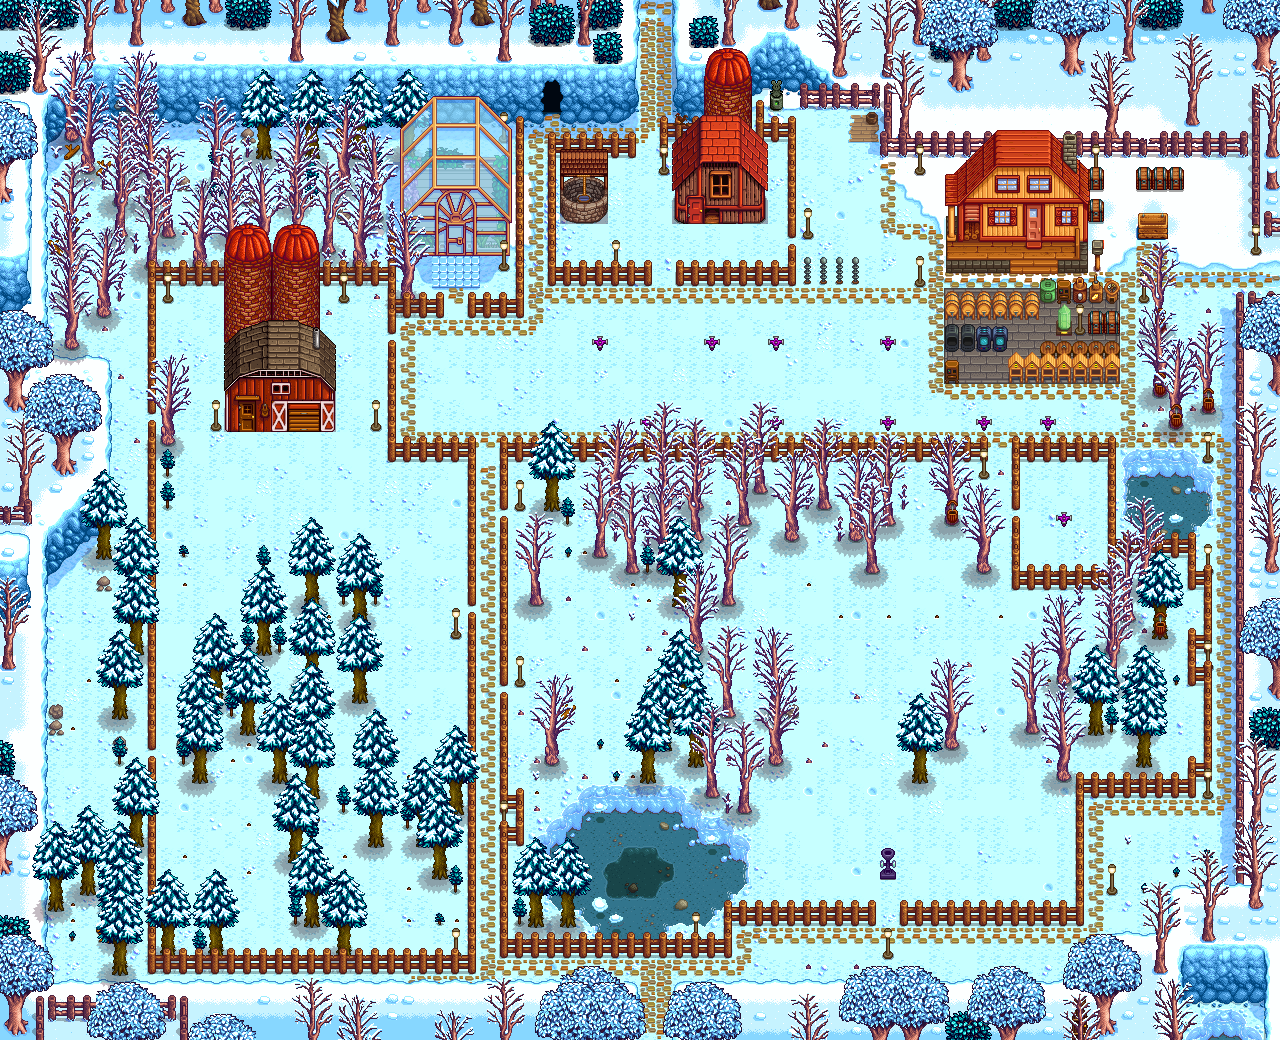
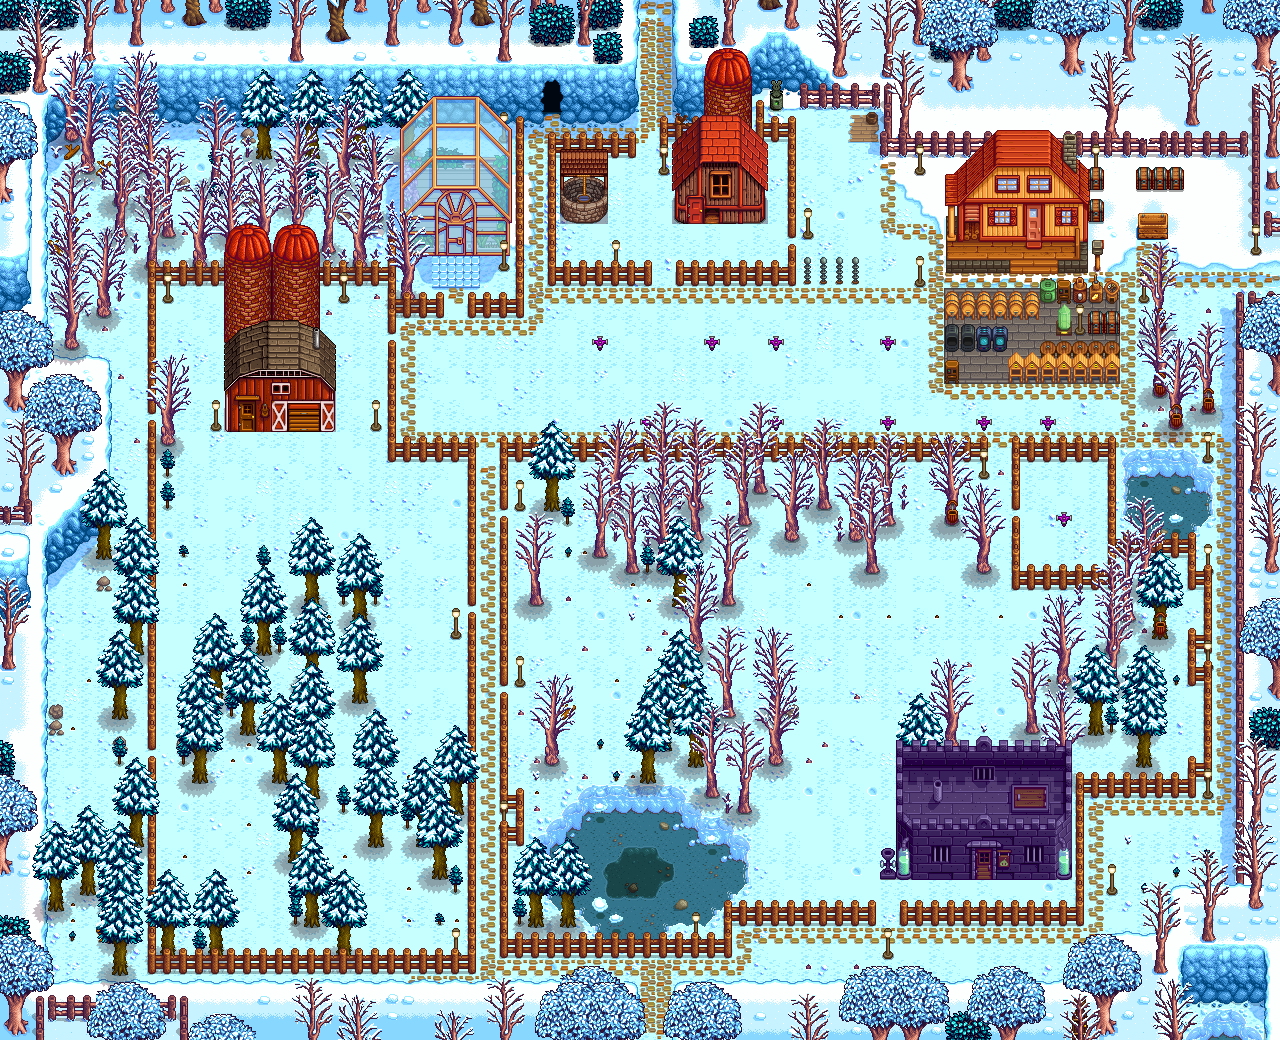
Draw the Slime Hutch
For issue #39

Changed region(s): [[0.6875, 0.7077, 0.8438, 0.8615]]

diff --git a/view/draw_building.go b/view/draw_building.go
@@ -80,7 +80,14 @@ func drawBuilding(pm *parser.Map, building *parser.Building, img draw.Image) {
 		sr := xnaRect(0, 0, 48, 80)
 		dp := image.Point{
 			building.TileX * m.TileWidth,
-			(building.TileY+1)*m.TileHeight - 8,
+			(building.TileY)*m.TileHeight + m.TileHeight/2,
+		}
+		sb.Draw(img, midLeftAlign(sr, dp), src, sr.Min, houseLayer)
+	case building.BuildingType == "Slime Hutch":
+		sr := xnaRect(0, 0, 176, 144)
+		dp := image.Point{
+			building.TileX * m.TileWidth,
+			(building.TileY+1)*m.TileHeight + m.TileHeight/2,
 		}
 		sb.Draw(img, midLeftAlign(sr, dp), src, sr.Min, houseLayer)
 
